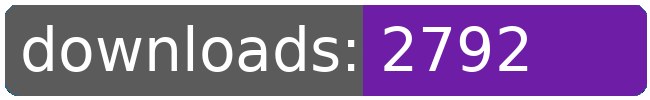
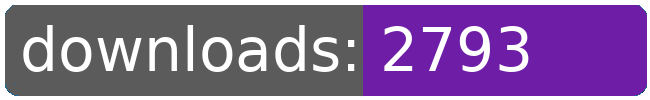
dl log written

Changed region(s): [[0.7692, 0.42, 0.8308, 0.72], [0.7692, 0.27, 0.8, 0.36], [0.8, 0.36, 0.8308, 0.39]]

diff --git a/README.md b/README.md
@@ -153,8 +153,8 @@
 		<td>2743</td>
 		<td>2759</td>
 		<td>2777</td>
-		<td>2792</td>
-		<td>+ 15</td>
+		<td>2793</td>
+		<td>+ 16</td>
 	</tr>
 	<tr>
 		<td>purchase.bactrian</td>
@@ -274,8 +274,8 @@
 		<td></td>
 		<td></td>
 		<td></td>
-		<td>54254</td>
-		<td>305</td>
+		<td>54255</td>
+		<td>306</td>
 	</tr>
 </table>
 </sub></sup>
@@ -399,8 +399,8 @@
 		<td>2743</td>
 		<td>2759</td>
 		<td>2777</td>
-		<td>2792</td>
-		<td>+ 15</td>
+		<td>2793</td>
+		<td>+ 16</td>
 	</tr>
 	<tr>
 		<td>unlimited.dfc</td>
@@ -553,8 +553,8 @@
 		<td></td>
 		<td></td>
 		<td></td>
-		<td>54254</td>
-		<td>305</td>
+		<td>54255</td>
+		<td>306</td>
 	</tr>
 </table>
 </sub></sup>
